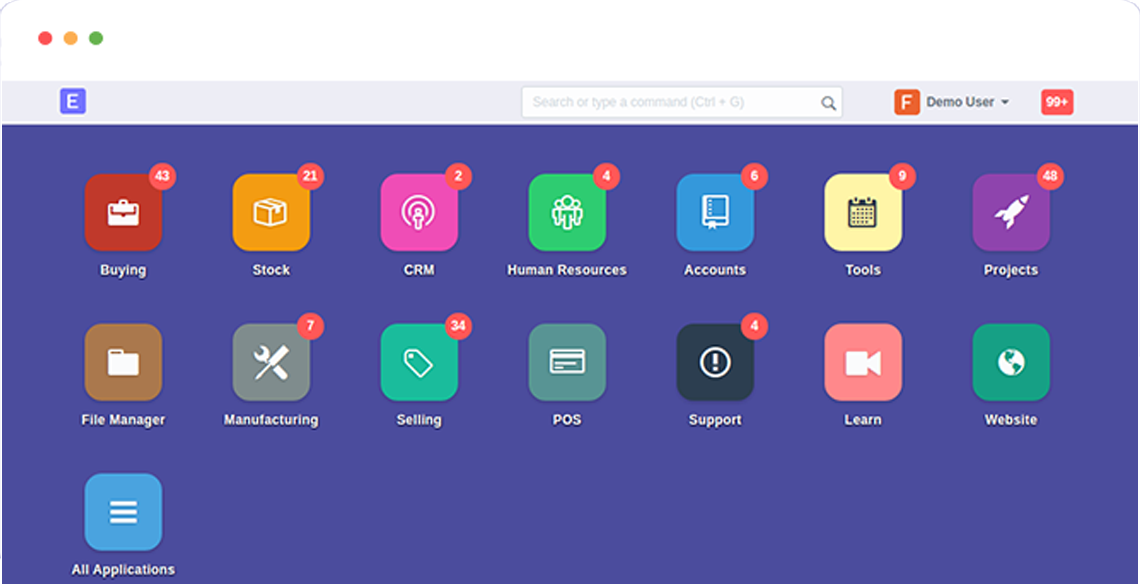
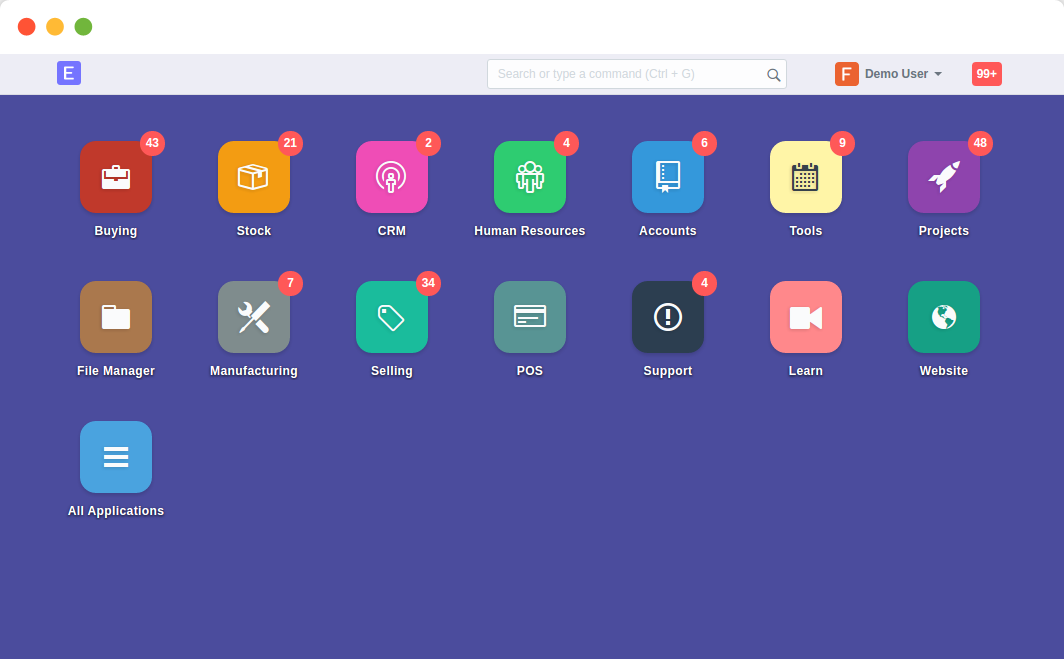
Industry drop down added

diff --git a/erpnext_com/www/services/index.html b/erpnext_com/www/services/index.html
@@ -21,7 +21,9 @@
 						</p>
 						<div class="row">
 							<div class="col-md-8 col-md-offset-2">
-								<img src="/assets/erpnext_com/images/services/dashboard.png" class="img-responsive" alt="erpnext dashboard" />
+								<div class="fake-browser-frame">
+									<img class="img-responsive browser-image feature-image" src="/assets/erpnext_com/images/services/desktop.png">
+								</div>
 							</div>
 						</div>
 					</div>
@@ -227,9 +229,6 @@
                 </li>
                 <li>
                     <a href="https://frappe.io">Frappé</a>
-                </li>
-                <li>
-                    <a href="https://erpnext.com/schools">Schools</a>
                 </li>
                 <li>
                     <a href="https://frappe.io/blog">Blog</a>

diff --git a/erpnext_com/templates/includes/navbar/navbar_items.html b/erpnext_com/templates/includes/navbar/navbar_items.html
@@ -14,6 +14,14 @@
 	{"label": "Features", "url": "/features", "right":1},
 	{"label": "Docs", "url": "http://frappe.github.io/erpnext", "right":1},
 	{"label": "Blog", "url": "https://frappe.io/blog", "right":1},
+	{"label": "Industry", "child_items":[
+											{"lable": "Services", "url": "/service","right": 1},
+											{"lable": "Manufacturing", "url": "/service","right": 1},
+											{"lable": "Retail", "url": "/service","right": 1},
+											{"lable": "Distribution", "url": "/service","right": 1},
+											{"lable": "Schools", "url": "/service","right": 1}
+										]
+	}
 ] %}
 
 {% endif %}
